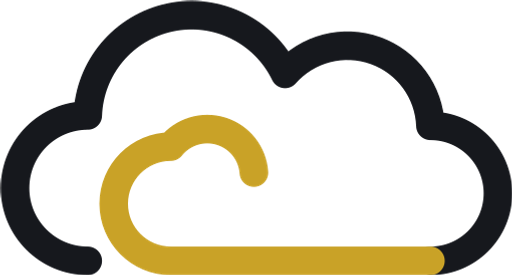
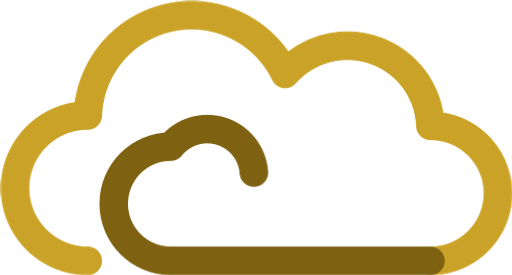
feat: gold line and deep-gold return as the mark's colour roles
Switches the mark from an ink line with a gold return to a gold line with
a deep-gold return, matching the white-field tile chosen from the colour
studies.

Gold now carries the silhouette in both tones, so the logo reads as the
same object on light and dark; only the return changes — deep gold on
light, cream on ink. Previously the light and dark versions used different
colours for the line itself, which made them read as two marks.

Measured contrast against the surface behind the line:

  gold line on paper    2.42:1
  gold line on panel    2.22:1
  deep-gold return      5.76:1
  gold vs deep gold     2.38:1
  gold line on ink      7.34:1
  cream return on ink  17.76:1

The light pairing is deliberately soft — it was chosen with the ink line's
17.76:1 on the table. Contrast minimums do not bind logos, but it is the
reason the tiles stay ink-on-gold and the favicon stays the ink tile: at
16px the gold line has nothing left to give. MARK_ROLES carries these
numbers so the trade-off is not rediscovered later.

The brand page now states the ratio and the handling it implies rather
than leaving it for someone to find in situ.

diff --git a/src/app/brand/page.tsx b/src/app/brand/page.tsx
@@ -33,7 +33,7 @@ const FULL_LOGO: Asset[] = [
 
 const ICON: Asset[] = [
   { file: "invision-icon.svg", title: "SVG — transparent", note: "Vector · works on light backgrounds" },
-  { file: "invision-icon-dark.svg", title: "SVG — for dark backgrounds", note: "Vector · cream line, gold return", dark: true },
+  { file: "invision-icon-dark.svg", title: "SVG — for dark backgrounds", note: "Vector · gold line, cream return", dark: true },
   { file: "invision-icon-square.svg", title: "SVG — rounded tile", note: "For platforms that apply their own mask" },
   { file: "invision-icon-2048.png", title: "PNG — 2048px", note: "Transparent corners" },
   { file: "invision-icon-1024.png", title: "PNG — 1024px", note: "Transparent corners" },
@@ -118,10 +118,11 @@ export default function BrandPage() {
           </p>
           <p className="mt-4 max-w-2xl text-sm leading-relaxed text-slate">
             The mark is a cloud drawn as one continuous line. The stroke traces
-            the silhouette, runs back along the base, then turns inward and
-            stops. The outward pass is the platform — the estate running
-            somewhere you cannot point at. The return is the consultant coming
-            back through it. One line, two tones, no second object.
+            the silhouette in gold, runs back along the base, then turns inward
+            in deep gold and stops. The outward pass is the platform — the
+            estate running somewhere you cannot point at. The return is the
+            consultant coming back through it. One line, two tones, no second
+            object.
           </p>
           <p className="mt-4 max-w-2xl text-sm leading-relaxed text-slate">
             There is a second, solid form for small sizes. The line itself
@@ -229,9 +230,19 @@ export default function BrandPage() {
                 favicon or avatar, use the tile — it carries the solid form.
               </li>
               <li>
-                The gold is part of the mark. Where a single colour is required,
-                use ink on light or white on dark rather than substituting
-                another accent.
+                Gold carries the line in both versions, so the mark reads as
+                the same object either way — only the return changes: deep gold
+                on light, cream on ink.
+              </li>
+              <li>
+                On light backgrounds the gold line measures 2.42:1 against
+                paper. That is a deliberately soft mark, chosen over the higher
+                contrast alternative. Give it room, keep it off busy surfaces,
+                and use the tile wherever it has to compete.
+              </li>
+              <li>
+                Where a single colour is required, use ink on light or white on
+                dark rather than substituting another accent.
               </li>
             </ul>
           </SurfaceCard>

diff --git a/src/components/logo.tsx b/src/components/logo.tsx
@@ -1,6 +1,7 @@
 import {
   ART,
   ASPECT,
+  MARK_ROLES,
   CLOUD_ARC,
   CLOUD_CLOSED,
   RETURN_ARC,
@@ -16,8 +17,9 @@ type Tone = "light" | "dark";
 
 /**
  * The mark's two forms. `mono` is the primary: one continuous line, silhouette
- * in the foreground colour and the return in gold. `solid` is what small sizes
- * use, because below SOLID_BELOW_PX the stroke drops under a device pixel.
+ * in `fg` and the return in `accent` — see MARK_ROLES for which is which per
+ * tone. `solid` is what tiles use, since a thin stroke can be masked away
+ * entirely at icon sizes.
  */
 function Artwork({ solid, fg, accent }: { solid: boolean; fg: string; accent: string }) {
   if (solid) {
@@ -107,7 +109,7 @@ function LogoMark({
     );
   }
 
-  const fg = tone === "dark" ? "var(--color-paper)" : "var(--color-ink)";
+  const roles = MARK_ROLES[tone];
   return (
     <svg
       width={size * ASPECT}
@@ -117,7 +119,7 @@ function LogoMark({
       xmlns="http://www.w3.org/2000/svg"
       aria-hidden="true"
     >
-      <Artwork solid={useSolid} fg={fg} accent="var(--color-gold)" />
+      <Artwork solid={useSolid} fg={roles.line} accent={roles.return} />
     </svg>
   );
 }

diff --git a/src/lib/brand.ts b/src/lib/brand.ts
@@ -68,6 +68,25 @@ export const ASPECT = ART.width / ART.height;
  */
 export const SOLID_BELOW_PX = 18;
 
+/**
+ * Colour roles for the mark. Gold carries the silhouette in both tones, so the
+ * logo reads as the same object on light and dark; only the return changes.
+ *
+ * Measured contrast against the surface behind it:
+ *   gold line on paper   2.42:1     gold line on ink     7.34:1
+ *   gold line on panel   2.22:1     paper return on ink  17.76:1
+ *   deep-gold return     5.76:1     gold vs deep gold     2.38:1
+ *
+ * The light pairing is soft by design — this was chosen over the ink line
+ * (17.76:1) with those numbers on the table. Contrast minimums do not bind
+ * logos, but it is why the tiles stay ink-on-gold and the favicon stays the
+ * ink tile: at 16px the gold line has nothing left to give.
+ */
+export const MARK_ROLES = {
+  light: { line: "var(--color-gold)", return: "var(--color-gold-ink)" },
+  dark: { line: "var(--color-gold)", return: "var(--color-paper)" },
+} as const;
+
 /** Tile proportions — corner radius, and how much of the tile the mark fills. */
 export const TILE = { radiusRatio: 0.22, fillRatio: 0.66 } as const;
 

diff --git a/src/app/opengraph-image.tsx b/src/app/opengraph-image.tsx
@@ -29,9 +29,10 @@ export default function OpengraphImage() {
             stacked lockup would crowd it. */}
         <div style={{ display: "flex", alignItems: "center", gap: 24 }}>
           <svg width={72 * ASPECT} height={72} viewBox={VIEWBOX} fill="none">
+            {/* Gold line, deep-gold return — the light-tone roles. */}
             <path
               d={CLOUD_ARC}
-              stroke={BRAND_COLOURS.ink}
+              stroke={BRAND_COLOURS.gold}
               strokeWidth={STROKE}
               fill="none"
               strokeLinecap="round"
@@ -39,7 +40,7 @@ export default function OpengraphImage() {
             />
             <path
               d={RETURN_ARC}
-              stroke={BRAND_COLOURS.gold}
+              stroke={BRAND_COLOURS.goldInk}
               strokeWidth={STROKE}
               fill="none"
               strokeLinecap="round"
